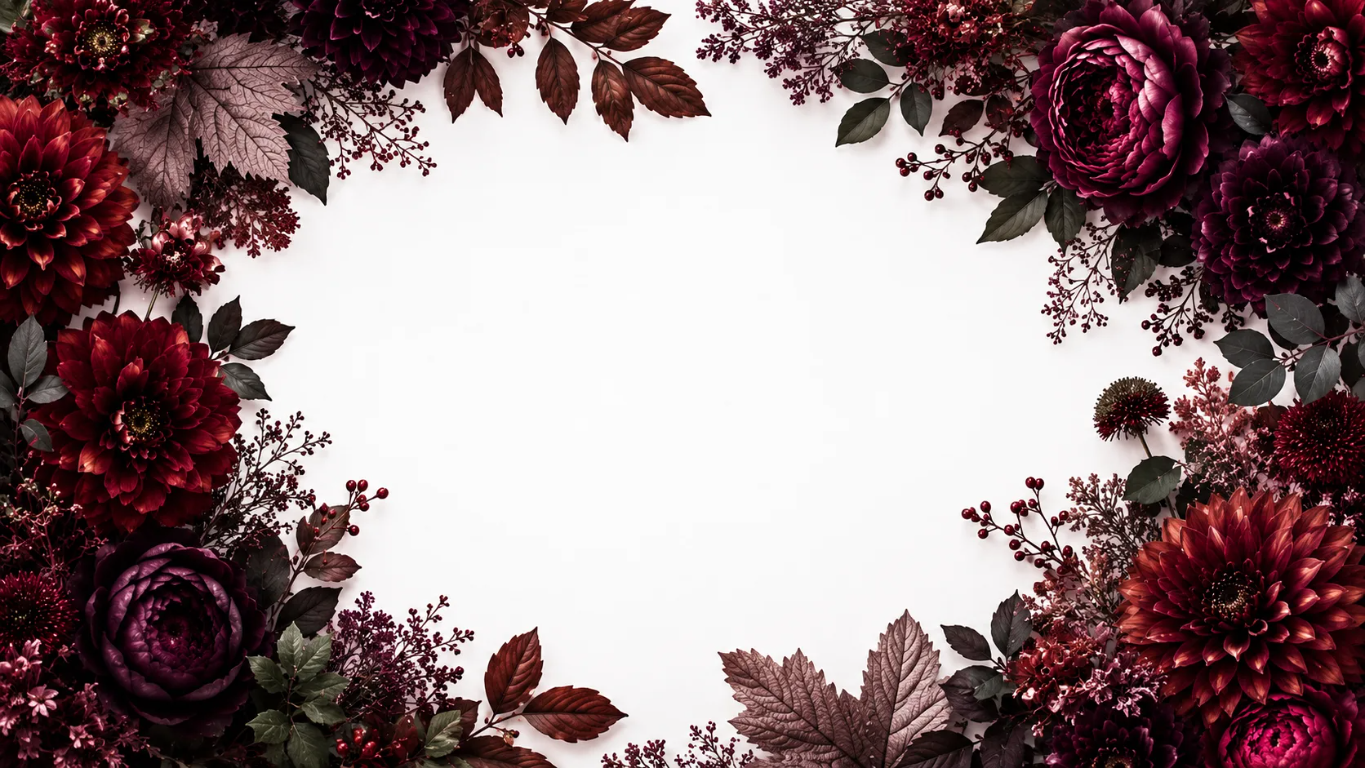
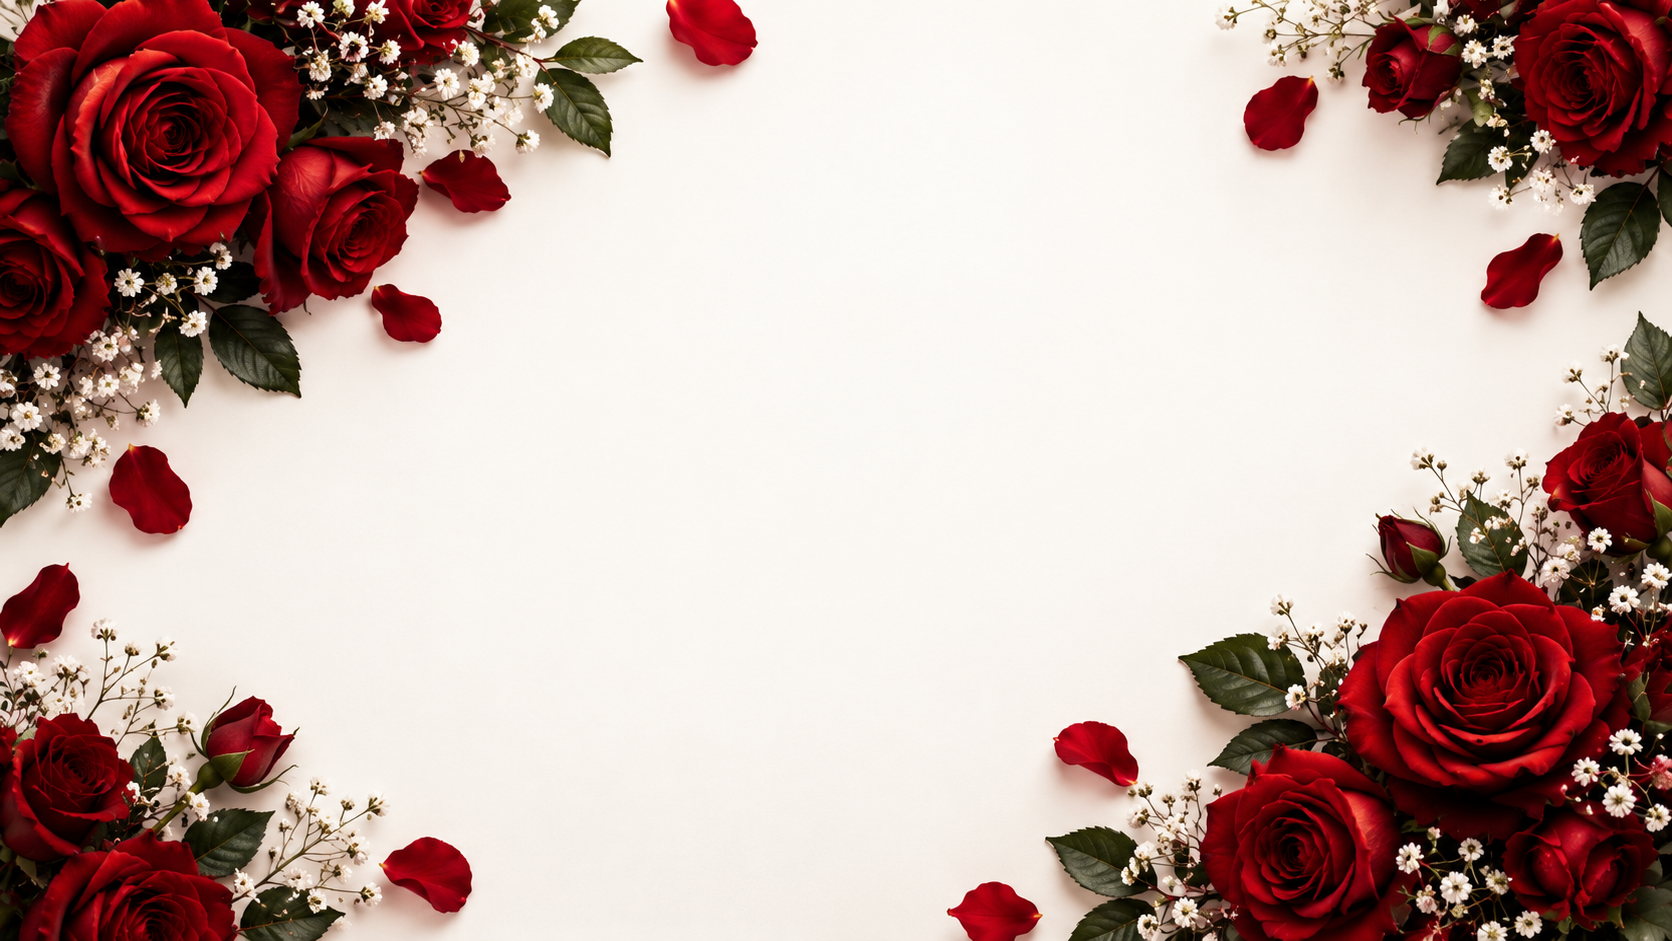
update

diff --git a/index.html b/index.html
@@ -365,6 +365,14 @@
         color: var(--gold-light);
         margin-bottom: 10px;
       }
+      .hero-eyebrow-sub {
+        font-family: "Cinzel", serif;
+        font-size: clamp(5px, 2vw, 9px);
+        letter-spacing: 0.32em;
+        text-transform: uppercase;
+        color: var(--gold-light);
+        margin-bottom: 10px;
+      }
       .hero-names {
         font-family: "Cormorant Garamond", serif;
         font-size: clamp(48px, 13vw, 75px);
@@ -499,7 +507,7 @@
       }
       .section-title {
         font-family: "Cormorant Garamond", serif;
-        font-size: clamp(28px, 6vw, 48px);
+        font-size: clamp(28px, 5vw, 30px);
         font-weight: 500;
         color: var(--ink);
         line-height: 1.1;
@@ -1590,7 +1598,7 @@
       @media (max-width: 768px), (min-width: 769px) {
         .hero-inner {
           padding: clamp(50px, 10vw, 80px) clamp(14px, 5vw, 28px)
-            clamp(40px, 8vw, 60px);
+            clamp(0px, 8vw, 60px);
         }
         .hero-strip-top,
         .hero-strip-bot {
@@ -1687,10 +1695,14 @@
           bottom: 8px;
         }
         .hero-inner {
-          padding: 50px 12px 40px;
+          padding: 0px 12px 40px;
         }
         .hero-eyebrow {
           font-size: 12px;
+          letter-spacing: 0.24em;
+        }
+        .hero-eyebrow-sub {
+          font-size: 9px;
           letter-spacing: 0.24em;
         }
         .hero-dateline {
@@ -1917,16 +1929,18 @@
         font-size: clamp(16px, 6.5vw, 24px);
         font-style: italic;
         color: rgba(255, 255, 255, 0.85);
-        margin: 6px auto 16px;
+        margin: 20px auto 5px;
         border-bottom: 1.5px solid var(--gold-border);
+        border-top: 1.5px solid var(--gold-border);
         padding-bottom: 4px;
+        padding-top: 4px;
         min-width: 140px;
         text-align: center;
         display: inline-block;
       }
       .ceremony-guest {
         font-family: "Cormorant Garamond", serif;
-        font-size: clamp(32px, 8vw, 46px);
+        font-size: clamp(30px, 6vw, 34px);
         font-style: italic;
         font-weight: 500;
         color: var(--gold);
@@ -2158,28 +2172,30 @@
         letter-spacing: 0.25em;
         color: var(--gold);
         text-transform: uppercase;
-        margin-bottom: 6px;
+        margin: 0;
       }
       .env-card-title {
         font-family: "Cormorant Garamond", serif;
-        font-size: clamp(20px, 5vw, 28px);
+        font-size: clamp(15px, 5vw, 25px);
         color: var(--ink);
         line-height: 1.1;
         font-weight: 500;
+        margin: 0;
       }
       .env-card-amp {
         font-family: "Cormorant Garamond", serif;
         font-style: italic;
-        font-size: 14px;
+        font-size: 13px;
         color: var(--gold-bright);
-        margin: 2px 0;
+        margin: 0;
       }
       .env-card-date {
         font-family: "Cinzel", serif;
-        font-size: 8.5px;
+        font-size: 8px;
         letter-spacing: 0.15em;
         color: var(--ink-soft);
         text-transform: uppercase;
+        margin-bottom: 8px;
         margin-top: 8px;
       }
 
@@ -2408,7 +2424,7 @@
               <div class="env-card-title">Priyankara</div>
               <div class="env-card-amp">&amp;</div>
               <div class="env-card-title">Amanda</div>
-              <div class="env-card-date">November 28, 2026</div>
+              <div class="env-card-date">November 28, 2026 ~ 6.30 PM</div>
             </div>
           </div>
 
@@ -2620,13 +2636,14 @@
         </svg>
 
         <div class="hero-eyebrow">You Are Cordially Invited</div>
-        <div class="hero-guest" id="heroGuest"></div>
+        <div class="hero-eyebrow-sub">to celebrate the wedding of</div>
         <h1 class="hero-names serif">
           Priyankara<span class="hero-amp">&amp;</span>Amanda
         </h1>
+        <div class="hero-guest" id="heroGuest"></div>
         <div class="hero-dateline">Saturday &middot; 28th November 2026</div>
         <div class="hero-venue serif">
-          Homecoming Celebration &middot; Our Home
+          Homecoming Celebration &middot; At Home, Hettipola
         </div>
 
         <svg class="hero-bot-ornament" viewBox="0 0 240 48" aria-hidden="true">
